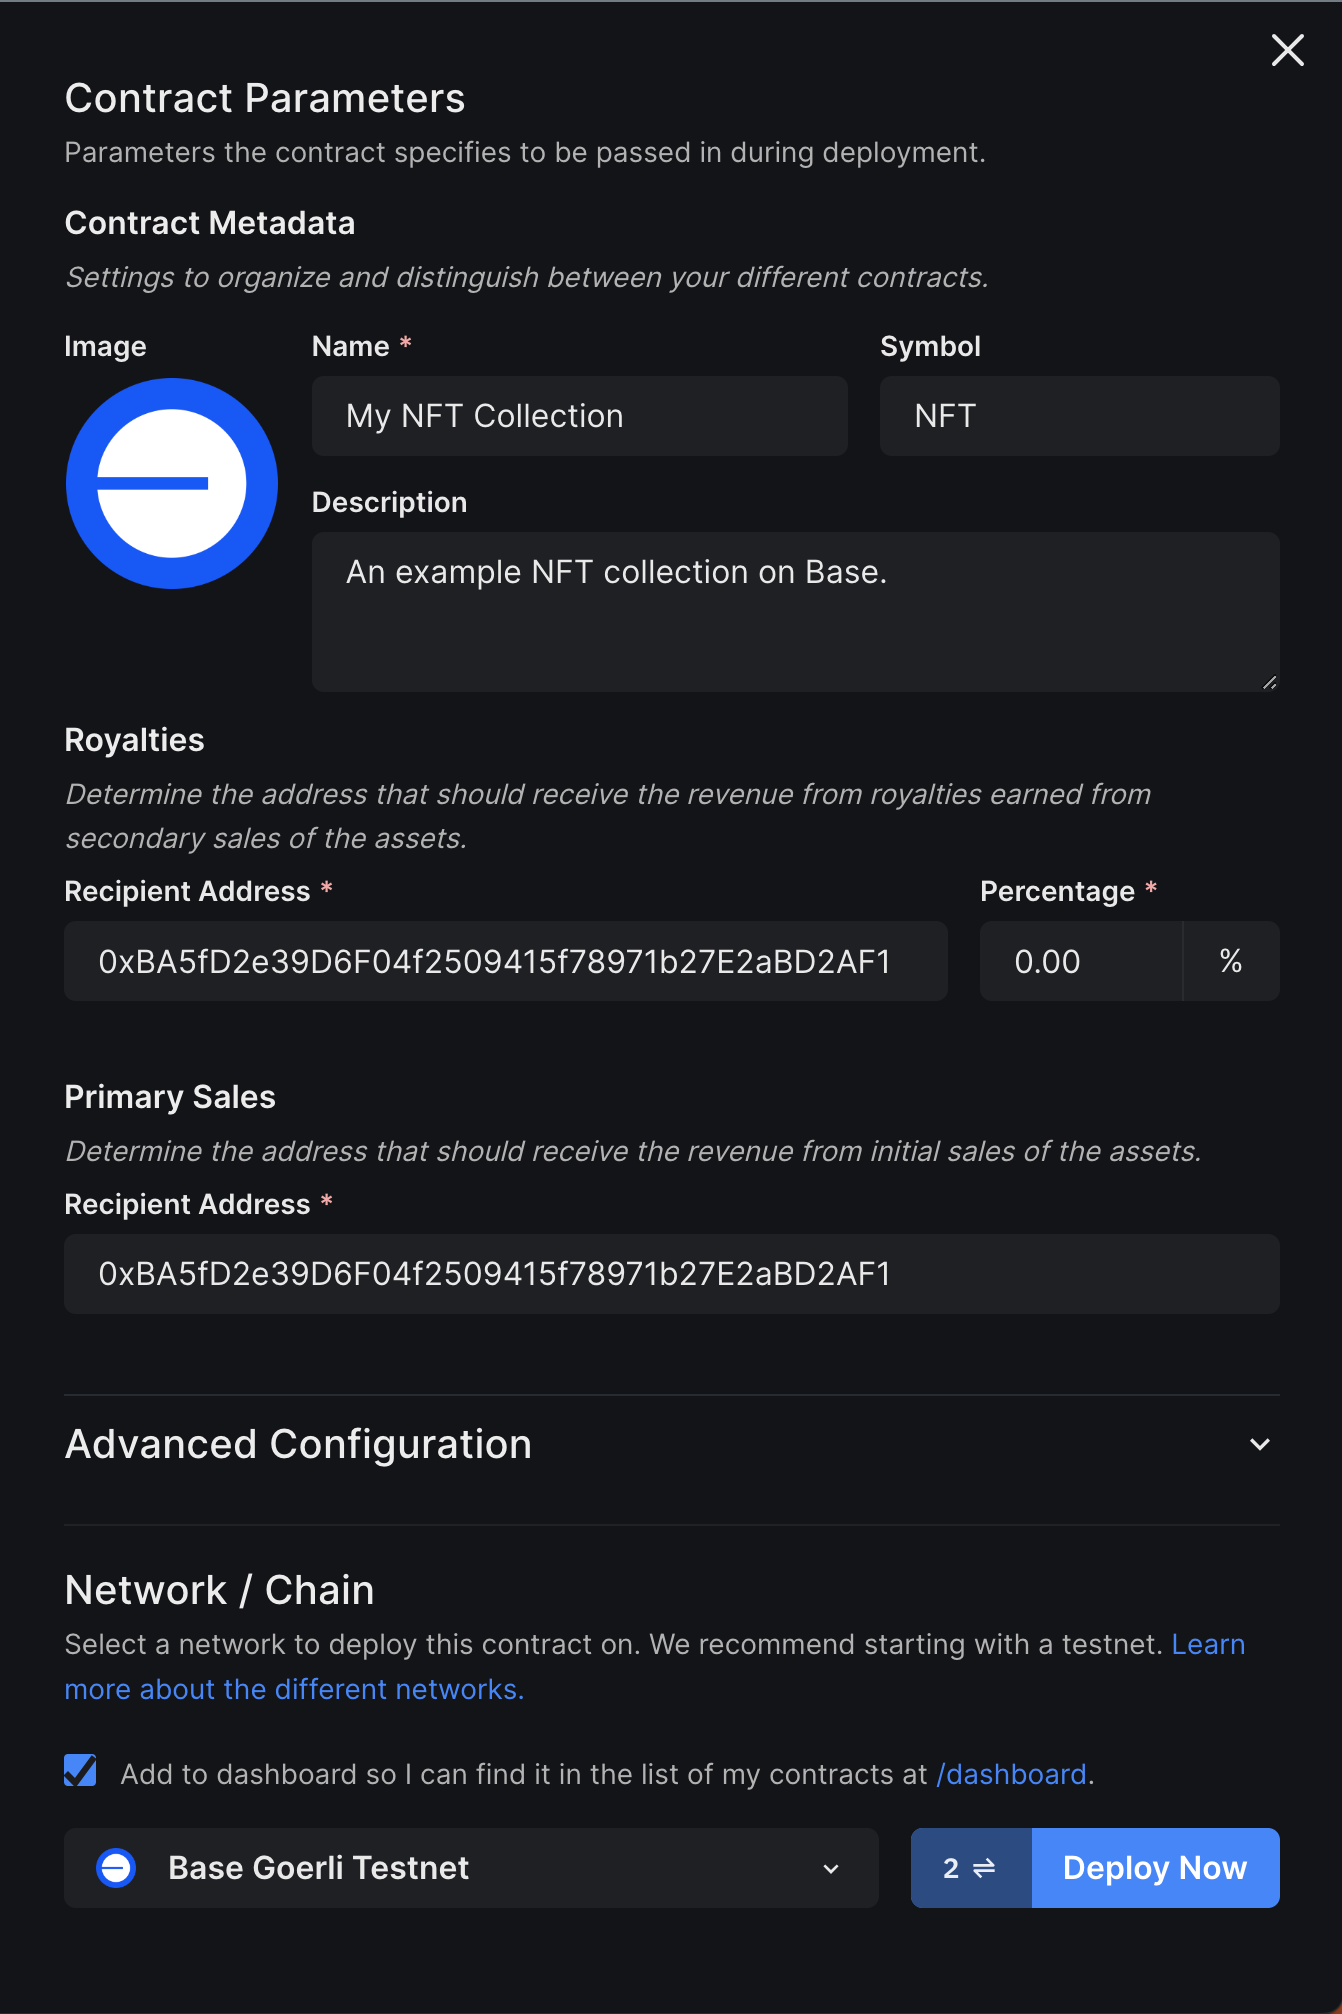
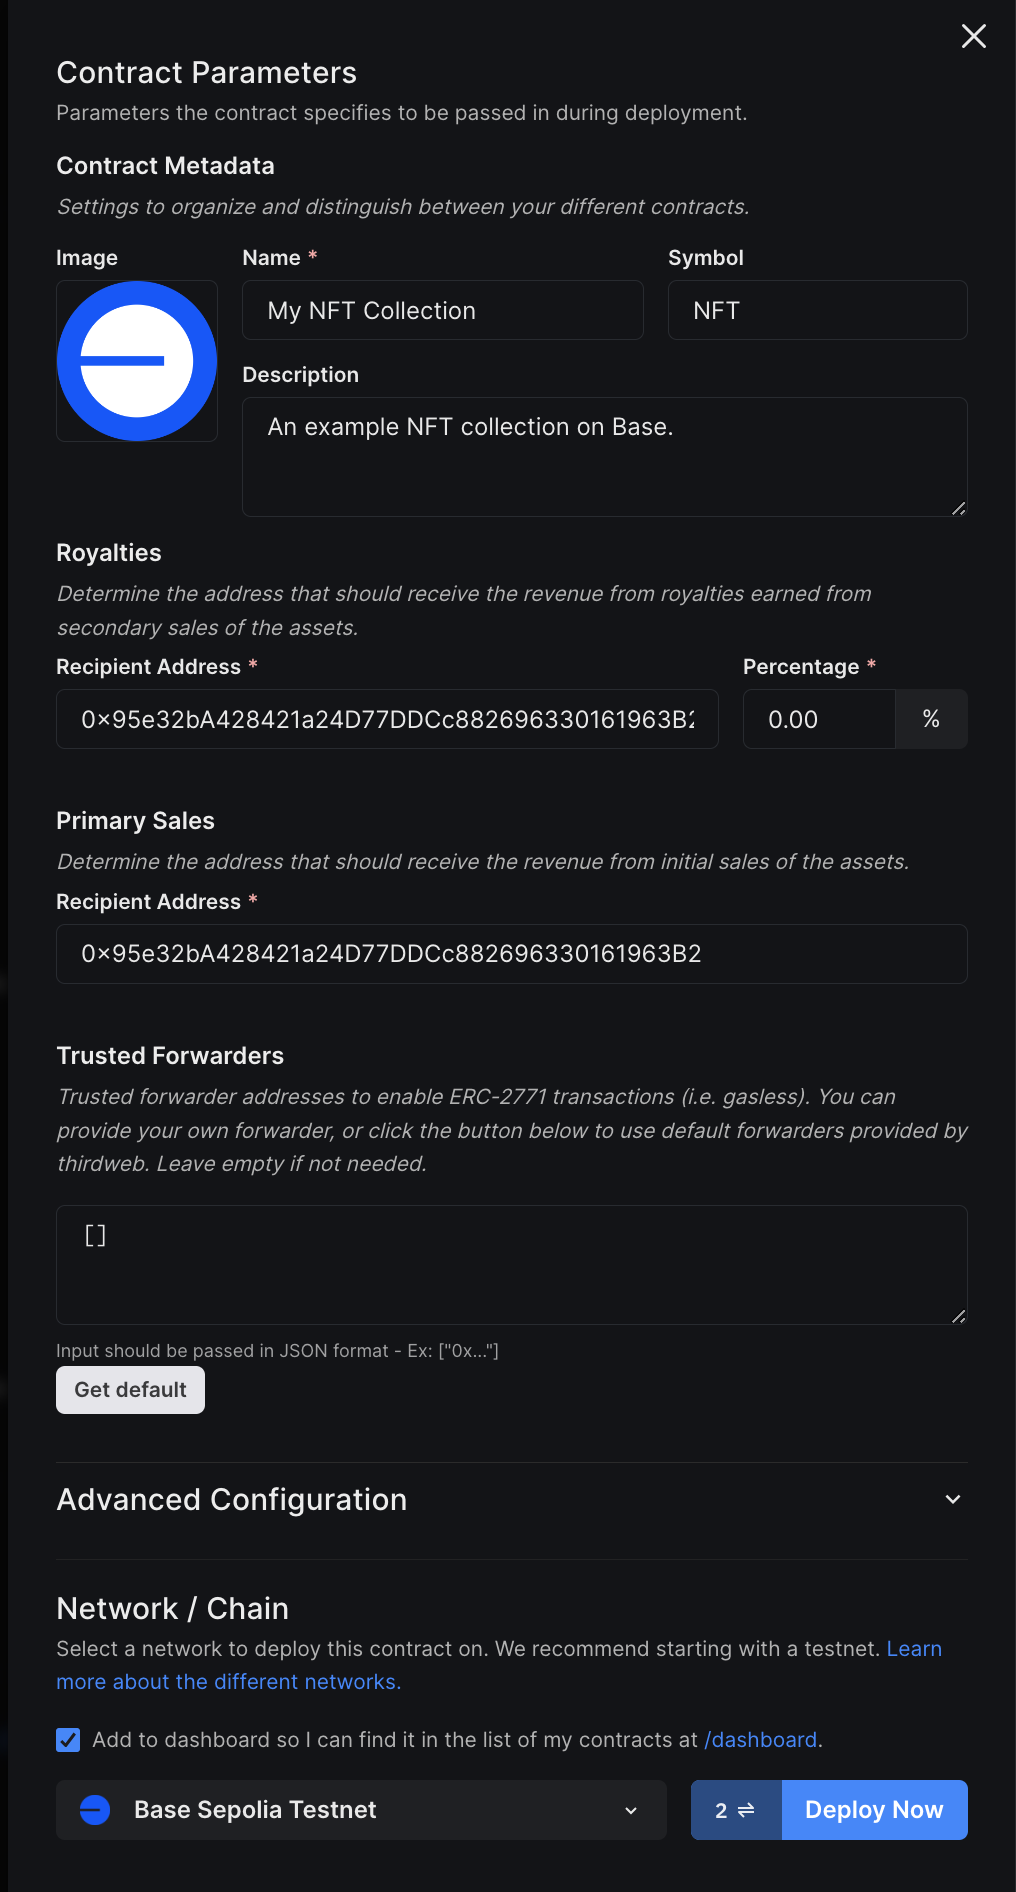
Update all thirdweb content with Sepolia

diff --git a/apps/base-docs/docs/building-with-base/guides/build-with-thirdweb.md b/apps/base-docs/docs/building-with-base/guides/build-with-thirdweb.md
@@ -50,12 +50,9 @@ To begin developing an app on Base, you first need to set up a web3 wallet. We r
 
 ### 2. Wallet Funding
 
-Blockchain transactions, including deploying smart contracts, necessitate a gas fee. You must, therefore, fund your wallet with Ether (ETH) to cover these costs. This guide focuses on deploying a contract to the Base Goerli test network, and you can fund your wallet with Base Goerli ETH via the following options:
+Blockchain transactions, including deploying smart contracts, necessitate a gas fee. Therefore, you will need to fund your wallet with ETH to cover those gas fees.
 
-- [Coinbase Faucet (Base Goerli)](https://www.coinbase.com/faucets/base-ethereum-goerli-faucet)
-- [Coinbase Wallet Faucets](https://chrome.google.com/webstore/detail/coinbase-wallet-extension/hnfanknocfeofbddgcijnmhnfnkdnaad)
-
-Detailed steps on wallet funding with Base Goerli ETH can be found under [Network Faucets](https://docs.base.org/tools/network-faucets).
+For this guide, you will be deploying a contract to the Base Sepolia test network. You can fund your wallet with Base Sepolia ETH using one of the faucets listed on the Base [Network Faucets](https://docs.base.org/tools/network-faucets) page.
 
 ---
 
@@ -72,14 +69,14 @@ Follow these steps to set up your NFT collection:
 5. Click the **Deploy now** button.
 6. Provide the required details for your NFT collection:
    1. Contract metadata (i.e. image, name, symbol, description)
-   2. Network (Choose **Base Goerli Testnet**)
+   2. Network (Choose **Base Sepolia Testnet**)
 7. Click **Deploy Now**.
 
 ![Thirdweb Deploy Contract](../../../assets/images/build-with-thirdweb/deploy-contract.png)
 
 :::info
 
-For production / mainnet deployments select `Base` (mainnet) as the network rather than `Base Goerli`.
+For production / mainnet deployments select `Base` (mainnet) as the network rather than `Base Sepolia`.
 
 :::
 
@@ -115,15 +112,15 @@ Run the following command:
 npx thirdweb create --template nft-gallery
 ```
 
-By default, the template is configured for an NFT collection on the Ethereum Mainnet. We will modify the code to adapt our NFT collection on the Base Goerli Testnet.
+By default, the template is configured for an NFT collection on the Ethereum Mainnet. We will modify the code to adapt our NFT collection on the Base Sepolia Testnet.
 
 Follow these steps to update the template:
 
 1. Open the project using your preferred code editor.
 2. Open the `src/consts/parameters.ts` file.
    1. Update the `contractAddress` variable to your NFT collection's contract address (found on the thirdweb dashboard).
-   2. Update the `chain` variable to `base-goerli`.
-   3. Update the `blockExplorer` variable to `https://goerli.basescan.org`.
+   2. Update the `chain` variable to `base-sepolia`.
+   3. Update the `blockExplorer` variable to `https://sepolia.basescan.org`.
 3. Open the `src/main.tsx` file.
 4. Replace the file contents with the following code:
 
@@ -133,23 +130,23 @@ import ReactDOM from "react-dom/client";
 import App from "./App";
 import "./index.css";
 import { ThirdwebProvider } from "@thirdweb-dev/react";
-import { BaseGoerli } from "@thirdweb-dev/chains";
+import { BaseSepoliaTestnet } from "@thirdweb-dev/chains";
 
 
 ReactDOM.createRoot(document.getElementById("root") as HTMLElement).render(
   <React.StrictMode>
-    <ThirdwebProvider activeChain={BaseGoerli}>
+    <ThirdwebProvider activeChain={BaseSepoliaTestnet}>
       <App />
     </ThirdwebProvider>
   </React.StrictMode>,
 );
 ```
 
-The above code imports and uses `BaseGoerli` to be the `activeChain`.
+The above code imports and uses `BaseSepoliaTestnet` to be the `activeChain`.
 
 :::info
 
-For production / mainnet deployments, update the information above so that the `chain` variable is `base` (step ii), the `blockExplorer` is `https://basescan.org` (step iii), and update both instances of `BaseGoerli` to `Base` in the example javascript code.
+For production / mainnet deployments, update the information above so that the `chain` variable is `base` (step ii), the `blockExplorer` is `https://basescan.org` (step iii), and update both instances of `BaseSepoliaTestnet` to `Base` in the example javascript code.
 
 :::
 
@@ -157,7 +154,7 @@ For production / mainnet deployments, update the information above so that the `
 
 ## Running the Application
 
-With the updated Base Goerli Testnet chain and your NFT collection's address, you can view your NFT collection from the application.
+With the updated Base Sepolia Testnet chain and your NFT collection's address, you can view your NFT collection from the application.
 
 To start the application, run the following command from the root directory:
 

diff --git a/apps/base-docs/docs/building-with-base/guides/deploy-with-thirdweb.md b/apps/base-docs/docs/building-with-base/guides/deploy-with-thirdweb.md
@@ -29,7 +29,7 @@ keywords:
 
 [thirdweb](https://thirdweb.com) is a development framework that allows you to build web3 functionality into your applications.
 
-In this guide, we'll give you an overview of using the [thirdweb CLI](https://portal.thirdweb.com/cli) to deploy a contract to the Base Goerli test network.
+In this guide, we'll give you an overview of using the [thirdweb CLI](https://portal.thirdweb.com/cli) to deploy a contract to the Base Sepolia test network.
 
 ---
 
@@ -130,11 +130,11 @@ From the dashboard, you will need to first enter the values for our contract's c
 - `_royaltyRecipient`: The wallet address that will receive the royalties from secondary sales
 - `_royaltyBps`: The basis points (bps) that will be given to the royalty recipient for each secondary sale, e.g. 500 = 5%
 
-Finally, select the Base Goerli test network as the [network](https://blog.thirdweb.com/guides/which-network-should-you-use/) you want to deploy to, and click **Deploy Now**.
+Finally, select the Base Sepolia test network as the [network](https://blog.thirdweb.com/guides/which-network-should-you-use/) you want to deploy to, and click **Deploy Now**.
 
 :::info
 
-For production / mainnet deployments select `Base` (mainnet) as the network rather than `Base Goerli`.
+For production / mainnet deployments select `Base` (mainnet) as the network rather than `Base Sepolia`.
 
 :::
 
@@ -168,18 +168,18 @@ Inside the [`index.tsx`](https://github.com/thirdweb-example/cra-typescript-star
 
 This wrapper allows us to use all of the [React SDK](https://portal.thirdweb.com/react)'s hooks and [UI Components](https://portal.thirdweb.com/react/react.web3button) throughout the application, as well as configure an `activeChain`; which declares which chain our smart contracts are deployed to.
 
-Since we deployed our smart contract to the Base network, we'll set the `activeChain` to `BaseGoerli`:
+Since we deployed our smart contract to the Base network, we'll set the `activeChain` to `BaseSepoliaTestnet`:
 
 ```javascript
 ...
-import { BaseGoerli } from "@thirdweb-dev/chains";
+import { BaseSepoliaTestnet } from "@thirdweb-dev/chains";
 import { ThirdwebProvider } from "@thirdweb-dev/react";
 
 const container = document.getElementById("root");
 const root = createRoot(container!);
 root.render(
  <React.StrictMode>
-   <ThirdwebProvider activeChain={BaseGoerli}>
+   <ThirdwebProvider activeChain={BaseSepoliaTestnet}>
      <App />
    </ThirdwebProvider>
  </React.StrictMode>

diff --git a/apps/base-docs/docs/tools/thirdweb-sdk.md b/apps/base-docs/docs/tools/thirdweb-sdk.md
@@ -57,13 +57,13 @@ const contract = await sdk.getContract('0x00000000000000000000000000000000000000
 
 The code snippet above uses the [React SDK](https://portal.thirdweb.com/react). The thirdweb SDKs are also available in [React Native](https://portal.thirdweb.com/react-native), [TypeScript](https://portal.thirdweb.com/typescript), [Python](https://portal.thirdweb.com/python), [Go](https://portal.thirdweb.com/go), and [Unity](https://portal.thirdweb.com/unity).
 
-If alternatively you'd like to initialize the SDK with Base Goerli (testnet), use the following code instead:
+If alternatively you'd like to initialize the SDK with Base Sepolia (testnet), use the following code instead:
 
 ```javascript
-import { BaseGoerli } from '@thirdweb-dev/chains';
+import { BaseSepoliaTestnet } from '@thirdweb-dev/chains';
 import { ThirdwebSDK } from '@thirdweb-dev/sdk/evm';
 
-const sdk = new ThirdwebSDK(BaseGoerli);
+const sdk = new ThirdwebSDK(BaseSepoliaTestnet);
 const contract = await sdk.getContract('0x0000000000000000000000000000000000000000');
 ```
 
